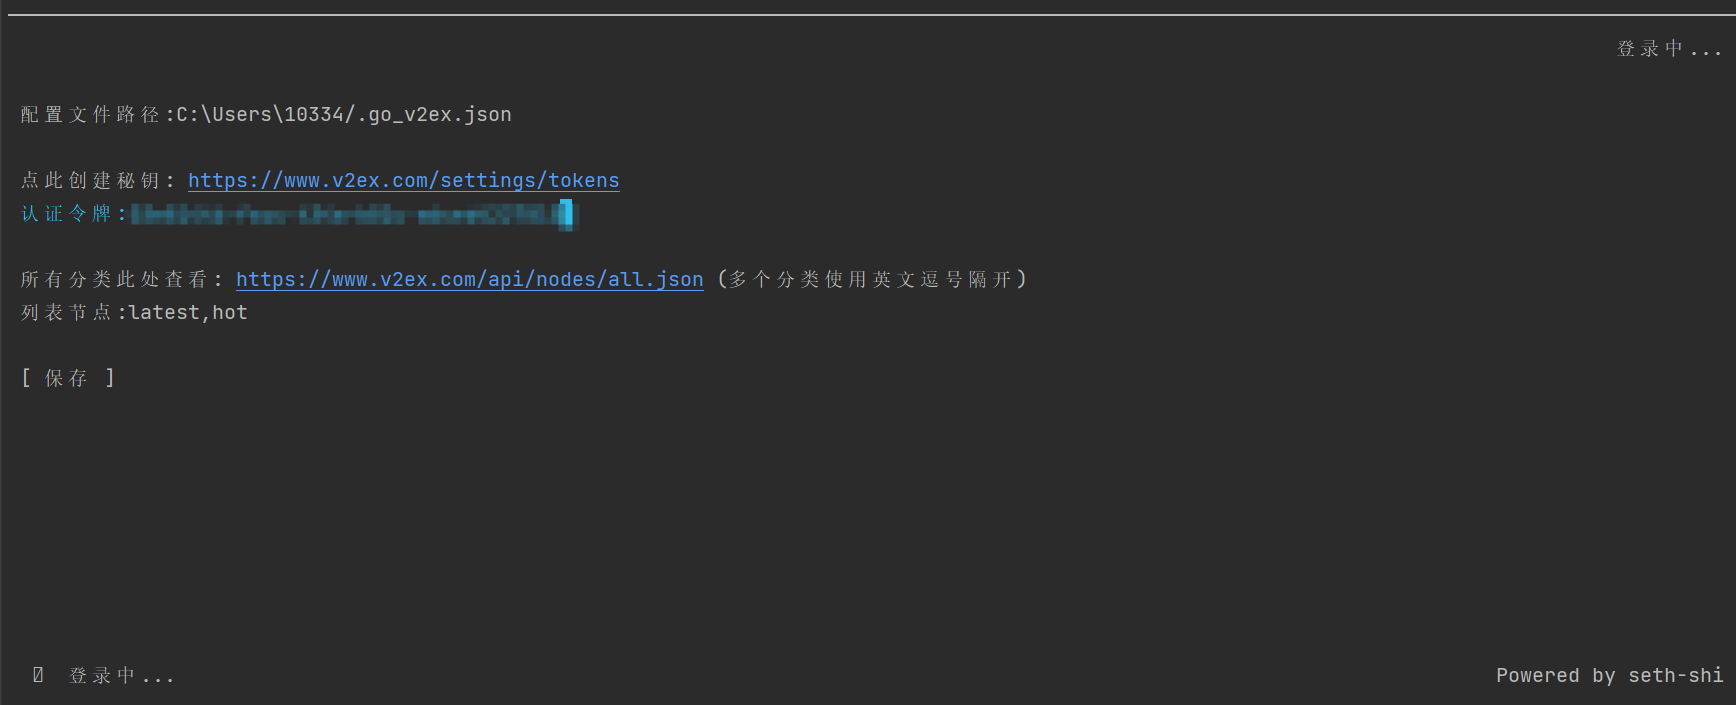
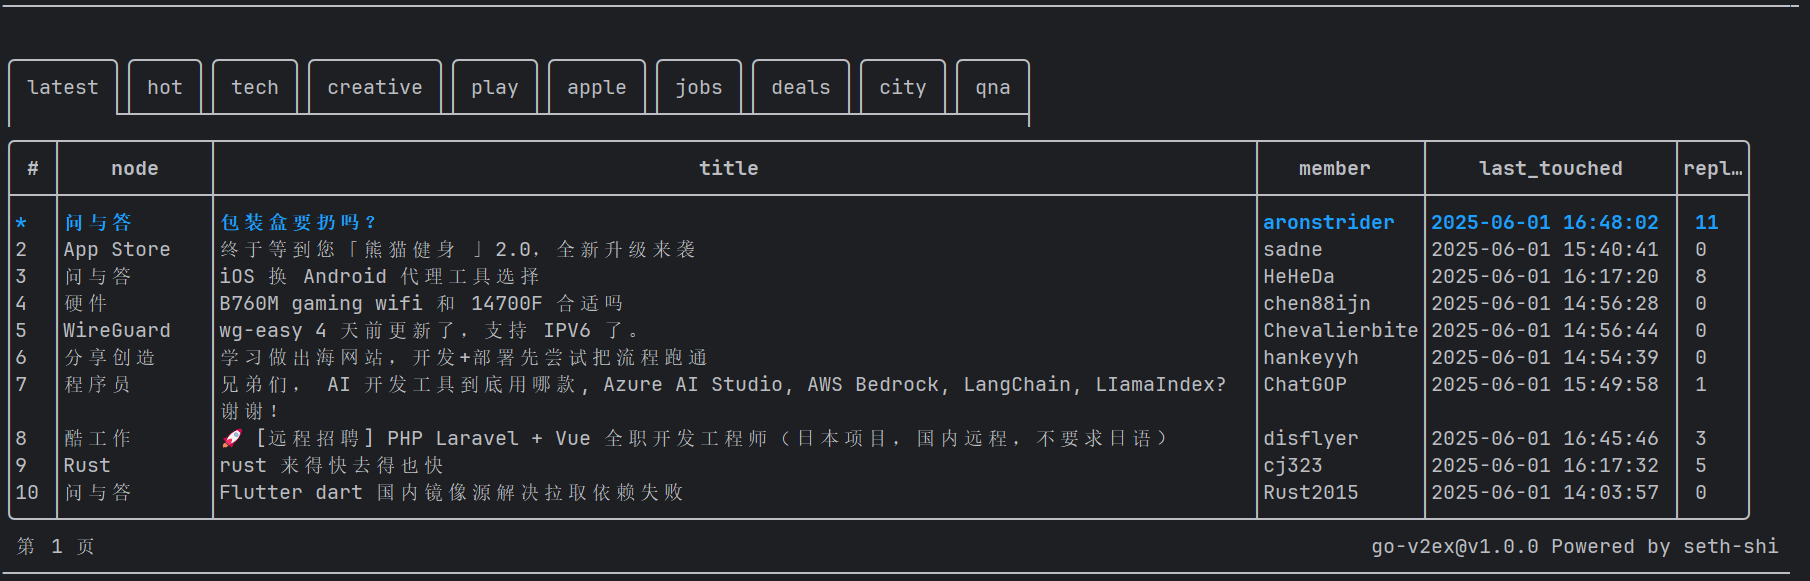
add: 更新 readme

diff --git a/internal/api/topics.go b/internal/api/topics.go
@@ -4,6 +4,7 @@ import (
 	"context"
 	"errors"
 	"fmt"
+	"log"
 
 	tea "github.com/charmbracelet/bubbletea"
 	"github.com/samber/lo"
@@ -41,8 +42,7 @@ func (client *v2exClient) GetTopics(nodeIndex int, page int) tea.Cmd {
 
 		r := client.client.R().SetContext(context.Background())
 		switch nodeName {
-		case latestNode:
-		case hotNode:
+		case latestNode, hotNode:
 			uri = lo.If(nodeName == latestNode, latestUri).Else(hotUri)
 			_, err = r.SetResult(&v1Res).SetError(&v1Error).Get(uri)
 			if !v1Error.Success() {
@@ -52,6 +52,9 @@ func (client *v2exClient) GetTopics(nodeIndex int, page int) tea.Cmd {
 			// 这两个接口不支持分页, 手动切分
 			offset := (page - 1) * latestLimit
 			v1Res = lo.Slice(v1Res, offset, offset+latestLimit)
+			log.Println(uri)
+			log.Println(offset)
+			log.Println(v1Res)
 			// 转换成统一的输出
 			res = lo.Map(v1Res, func(item types.V1TopicResult, index int) types.TopicComResult {
 				return types.TopicComResult{

diff --git a/README.md b/README.md
@@ -26,12 +26,11 @@ stateDiagram-v2
 
 ## 预览图
 
-![配置页面](assets/1.png)
-![帮助页面](assets/2.png)
+![列表页](assets/1.png)
 
 ## 安装使用 (TODO)
 
-* `go install xxx`
+* `go install github.com/seth-shi/go-v2ex@latest`
 * 去发布页面下载二进制文件
 
 
